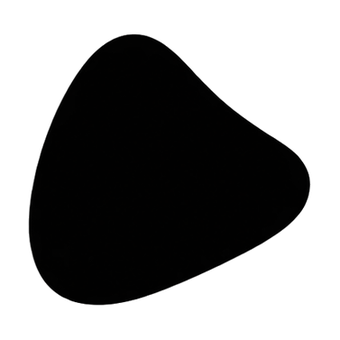
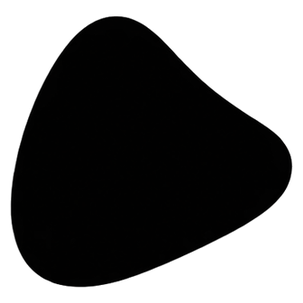
Sharpen native Fleck mark and simplify activity header

Changed region(s): [[0.0297, 0.0297, 0.9802, 0.9505]]

diff --git a/Sources/FleckApp/AgentActivityIndicator.swift b/Sources/FleckApp/AgentActivityIndicator.swift
@@ -148,23 +148,18 @@
           switch FleckMark.load(template: true) {
           case .image(let mark):
             Image(nsImage: mark)
-              .resizable()
               .frame(width: 18, height: 18)
           case .missingPackagedResource:
             Text("!")
               .foregroundStyle(theme.color(.error))
           }
-          Text("MCP")
-            .font(.caption2.weight(.semibold))
-            .foregroundStyle(theme.color(.caption))
-            .fixedSize(horizontal: true, vertical: false)
           Image(systemName: presentation.state.statusSymbol ?? "circle.fill")
             .font(.system(size: 7, weight: .semibold))
             .foregroundStyle(presentation.state.statusColor(in: theme))
             .opacity(presentation.state.statusSymbol == nil ? 0 : 1)
             .frame(width: 9, height: 9)
         }
-        .frame(width: 64, height: 22, alignment: .leading)
+        .frame(width: 32, height: 22, alignment: .leading)
         .contentShape(Rectangle())
       }
       .buttonStyle(.plain)

diff --git a/Tests/FleckAppTests/FleckBrandAuditTests.swift b/Tests/FleckAppTests/FleckBrandAuditTests.swift
@@ -64,12 +64,14 @@ import Testing
 
   #expect(titleArea.contains("AgentActivityIndicator("))
   #expect(activityIndicator[mark.upperBound...].contains("Image(nsImage: mark)"))
+  #expect(!activityIndicator.contains("MCP"))
   #expect(activityIndicator.contains("case .missingPackagedResource:"))
   #expect(activityIndicator.contains("Text(\"!\")"))
   #expect(activityIndicator.contains(".foregroundStyle(theme.color(.error))"))
   #expect(!activityIndicator.contains(".foregroundStyle(.red)"))
   #expect(!titleArea.contains("Text(\"Fleck\")"))
   #expect(!titleArea.contains(".accessibilityLabel(\"Fleck\")"))
+  #expect(activityIndicator.contains("Button(action: action)"))
   #expect(activityIndicator.contains(".accessibilityLabel(presentation.state.accessibilityLabel)"))
   #expect(activityIndicator.contains(".accessibilityHint(\"Open Agent Activity\")"))
 }

diff --git a/Tests/FleckAppTests/AgentActivityIndicatorTests.swift b/Tests/FleckAppTests/AgentActivityIndicatorTests.swift
@@ -243,14 +243,10 @@ private func requiredIndicatorContentWidth() -> CGFloat {
       switch FleckMark.load(template: true) {
       case .image(let mark):
         Image(nsImage: mark)
-          .resizable()
           .frame(width: 18, height: 18)
       case .missingPackagedResource:
         Text("!")
       }
-      Text("MCP")
-        .font(.caption2.weight(.semibold))
-        .fixedSize(horizontal: true, vertical: false)
       Image(systemName: "checkmark.circle.fill")
         .font(.system(size: 7, weight: .semibold))
         .frame(width: 9, height: 9)
